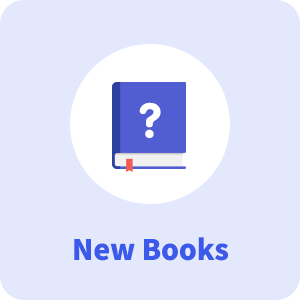
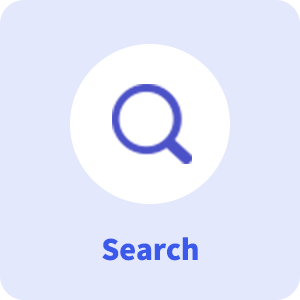
2021-06-29
변경사항
1. 홈페이지 공통 챗봇 아이콘
2. 홈페이지 메인 도도 시리즈 페이지 실행 버튼
3. 도서 표지: 신규도서 배지 추가
4. To-Do / Add more: Search 이미지 교체
5. 캘린더: 한국 표준시, 학습 목표 달성 안내 문구 추가
6. 리포트 / 프로그레스 레벨즈: Dodo ABC 레벨 추가

Changed region(s): [[0.36, 0.27, 0.66, 0.57], [0.24, 0.78, 0.78, 0.87]]

diff --git a/student/pages/004_calendar/001_calendar/001_cal_achievement.html b/student/pages/004_calendar/001_calendar/001_cal_achievement.html
@@ -611,6 +611,28 @@
                                         <p>학습 권 수: 100</p>
                                         <p>획득한 포인트: 200.22</p>
                                     </div>
+                                    <!-- 학습 목표 달성 안내 -->
+                                    <div class="col-12 performance">
+                                        <hr class="mt-2">
+                                        <!-- 한국어 -->
+                                        <p>* 학습 목표 달성</p>
+                                        <!-- 영어 -->
+                                        <!-- <p>* Achieved study goals</p> -->
+                                        <!-- 베트남어 -->
+                                        <!-- <p>* Số ngày đạt mục tiêu</p> -->
+                                        <div class="mb-2">
+                                            <img src="../../../assets/image/icon/img_medal_004.png" alt="" width="30">
+                                            <span class="ml-2">20~30 days</span>
+                                        </div>
+                                        <div class="mb-2">
+                                            <img src="../../../assets/image/icon/img_medal_003.png" alt="" width="30">
+                                            <span class="ml-2">15~19 days</span>
+                                        </div>
+                                        <div>
+                                            <img src="../../../assets/image/icon/img_medal_002.png" alt="" width="30">
+                                            <span class="ml-2">1~14 days</span>
+                                        </div>
+                                    </div>
                                 </div>
                             </div>
                         </div>
@@ -626,6 +648,15 @@
                         <img src="../../../assets/image/icon/replace-filled.png" alt="" width="12" height="12"
                             class="mx-1">
                         <span>아이콘이 표시됩니다.</span>
+                    </div>
+                    <!-- 한국시간 코멘트 -->
+                    <div class="mt-2">
+                        <!-- 한국어 -->
+                        <span>학습기록은 한국시간으로 표시됩니다.</span>
+                        <!-- 영어 -->
+                        <!-- <span>The study history is recorded in Korean time.</span> -->
+                        <!-- 베트남 -->
+                        <!-- <span>Lịch sử học tập sẽ được thể hiện theo giờ Hàn Quốc.</span>  -->
                     </div>
                 </div>
             </div>

diff --git a/student/pages/001_home/001_main_intro/001_main.html b/student/pages/001_home/001_main_intro/001_main.html
@@ -509,7 +509,59 @@
 	</section>
 	<!-- 공통 하단 -->
 	<footer class="border-top mt-4" id="compayMenu">
+		<div class="container py-4">
+			<div class="d-flex justify-content-between align-items-center mb-3">
+				<div id="channel">
+					<a href=""><img src="../../../assets/image/homepage/ico-cafe-on@2x.png" alt="" width="40"></a>
+					<a href=""><img src="../../../assets/image/homepage/ico-blog-on@2x.png" alt="" width="40"></a>
+					<a href=""><img src="../../../assets/image/homepage/ico-youtube-on@2x.png" alt="" width="40"></a>
+					<a href=""><img src="../../../assets/image/homepage/ico-insta-on@2x.png" alt="" width="40"></a>
+					<a href="https://character.readinggate.com/" target="blank"><img src="../../../assets/image/homepage/ico_dodofriends@x2.png" alt="" width="65"></a>
+				</div>
+				<div>
+					<a href="#" class="p-2 text-decoration-none txt-white-16 bg-dark rounded-10">top</a>
+				</div>
+			</div>
+			<div>
+				<ul>
+					<li>
+						<a href="">회사 소개</a>
+					</li>
+					<li>
+						<a href="">이용 약관</a>
+					</li>
+					<li>
+						<a href="">개인정보 취급방침</a>
+					</li>
+					<li>
+						<a href="">사업자 정보</a>
+					</li>
+					<li>
+						<a href="">교육기관 찾기</a>
+					</li>
+					<li>
+						<a href="">B2B</a>
+					</li>
+					<li>
+						<a href="">워크북 구매</a>
+					</li>
+				</ul>
+			</div>
+			<p> <span class="mr-2">(주)리딩게이트</span><span class="mr-2">대표이사: 김용환</span><br class="d-lg-none"> <span
+					class="mr-2">사업등록번호: 119-86-01044</span><br class="d-lg-none"><span class="mr-2">통신판매번호:
+					2013-경기성남-0836호</span><br> <span class="mr-2">TEL: 1599-0533</span><br class="d-lg-none"><span
+					class="mr-2">FAX:
+					070-826-8660</span><br class="d-lg-none"><span class="mr-2">Mail: rgmanager@readinggate.com</span>
+			</p>
+		</div>
 	</footer>
+
+	<!-- 챗봇 -->
+	<div class="chatbot">
+		<a href=""><img src="../../../assets/image/chatbot_icon.png" alt="" width="80"></a>
+	</div>
+
+
 	<!-- Bootstrap core JavaScript
     ================================================== -->
 	<!-- Placed at the end of the document so the pages load faster -->

diff --git a/student/pages/003_library/005_ebook/001_eb_level.html b/student/pages/003_library/005_ebook/001_eb_level.html
@@ -630,7 +630,11 @@
 								</div>
 							</div>
 							<a href="" class="txt-dark-14" data-toggle="modal" data-target="#bookInfo">
-								<div class="position-absolute badge badge-red badge-top">Movie</div>
+								<!-- 신규도서, 무비 배지 -->
+								<div class="position-absolute badge-top">
+									<div class="badge badge-red">New</div>
+									<div class="badge badge-red">Movie</div>
+								</div>
 								<div class="position-absolute book-point d-flex">
 									10.1
 								</div> <img
@@ -639,7 +643,7 @@
 							</a>
 						</div>
 						<div class="my-1">
-							<span class="badge badge-primary px-2 py-1 rounded-10">In Progrss</span>
+							<span class="badge badge-primary px-2 py-1 rounded-10">To-Do</span>
 						</div>
 						<div class="my-1 pl-1">
 							<span class="txt-grey-14">EB-KA-001</span>

diff --git a/student/assets/js/commonBottom.js b/student/assets/js/commonBottom.js
@@ -7,6 +7,7 @@ let companyMenu = (`
                 <a href=""><img src="../../../assets/image/homepage/ico-blog-on@2x.png" alt="" width="40"></a>
                 <a href=""><img src="../../../assets/image/homepage/ico-youtube-on@2x.png" alt="" width="40"></a>
                 <a href=""><img src="../../../assets/image/homepage/ico-insta-on@2x.png" alt="" width="40"></a>
+                <a href="https://character.readinggate.com/" target="blank"><img src="../../../assets/image/homepage/ico_dodofriends@x2.png" alt="" width="65"></a>
             </div>
             <div>
                 <a href="#" class="p-2 text-decoration-none txt-white-16 bg-dark rounded-10">top</a>

diff --git a/student/pages/005_report/001_report/002_progress_levels.html b/student/pages/005_report/001_report/002_progress_levels.html
@@ -299,7 +299,9 @@
                 <div class="level-up-chart row px-3">
                     <div class="col-12 d-flex">
                         <div class="level bg-level-pk">
-                            Pre K
+                            <!-- Dodo ABC 사용 고객사의 경우 표시되는 내용 -->
+                            <span class="mx-auto text-center txt-white-14">DODO ABC</span>
+                            <!-- <span>Pre K</span> -->
                         </div>
                         <div class="level-up status flex-fill">
                             <div class="progress">
